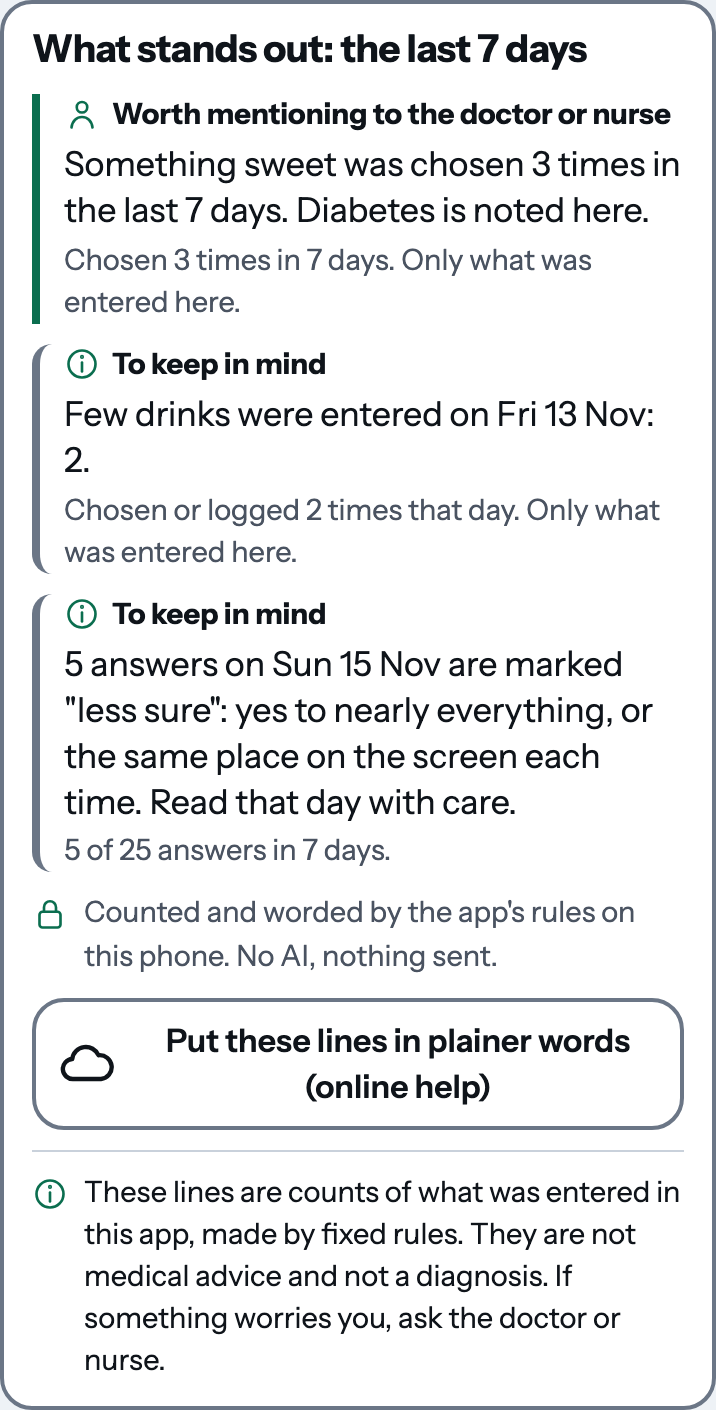
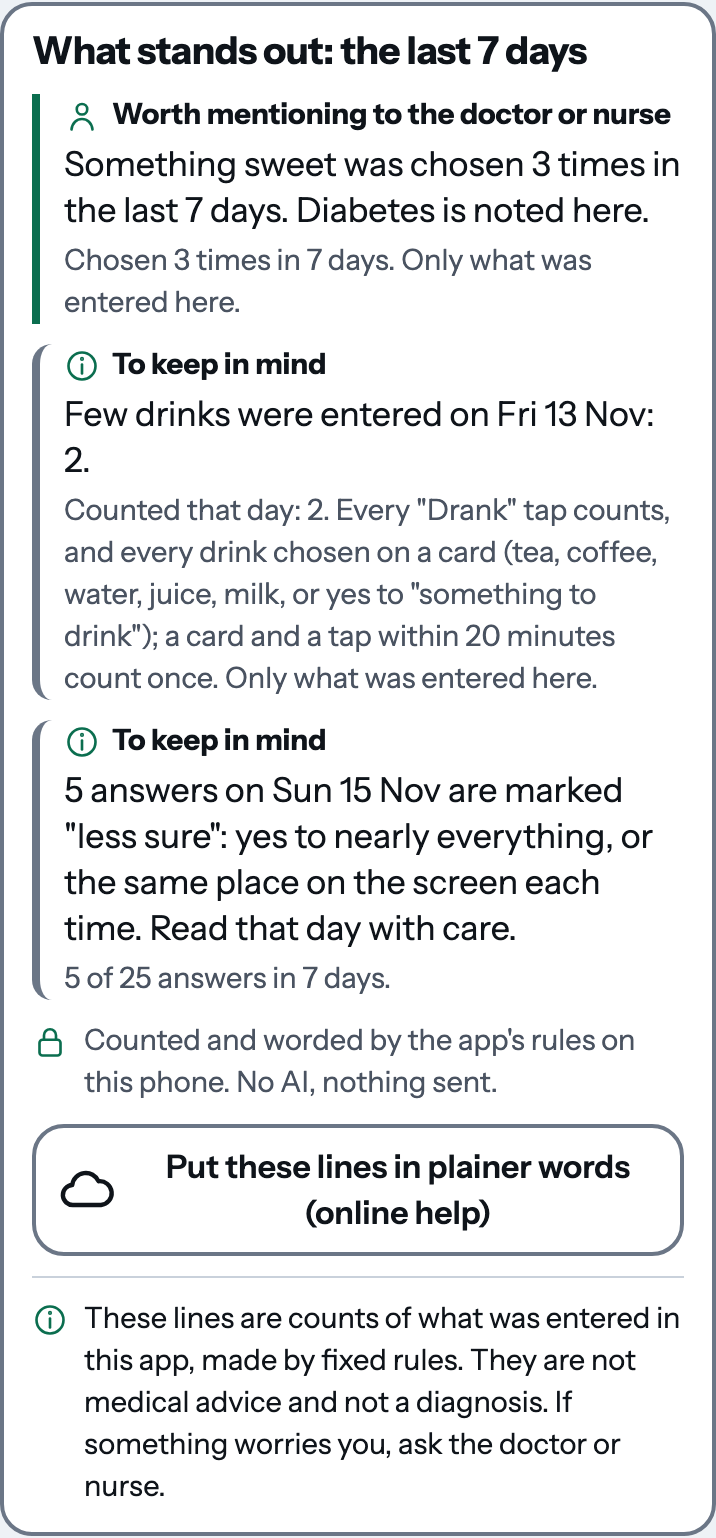
The answer check never discounts pain, and drinks are counted as the timeline shows them (four findings of a second role-play on the hosted copy). Safety: under "Are you in pain? Yes" the check said "Frank may be tired. Try again later", and a carer could have dismissed real pain. Now an answer abou

diff --git a/core/diary.ts b/core/diary.ts
@@ -10,6 +10,7 @@
 // What a diary is not: a record of what happened. It holds only what was entered in this app. A day with no drink in
 // it may be a day when nobody logged one, and every count the app shows says so.
 
+import { careAnswer } from './reliability';
 import type { TopicId } from './topics';
 
 /** The carer's one-tap log. */
@@ -136,8 +137,9 @@ const NOT_AN_ANSWER = /^(?:yes|no|not sure|something else|someone else|somewhere
 const FOOD_Q = /\b(?:snack|meal|eat|sweet|savoury|breakfast|lunch|dinner|supper|pudding)\b/;
 
 /**
- * What an entry counts as. A drink or a food counts when the person chose it by name or it was logged; "yes" to "Are
- * you hungry?" is not a meal, and "a hot drink" is one step on the way to "tea", so neither is counted.
+ * What an entry counts as. A drink counts when the person chose it by name on a card (tea, coffee, water, juice,
+ * milk), said yes to "something to drink", pointed to it on the board, or it was logged; a food likewise. "Yes" to
+ * "Are you hungry?" is not a meal, and "a hot drink" is one step on the way to "tea", so neither is counted.
  */
 export function tags(e: DiaryEntry): Tag[] {
   const l = lc(e.label);
@@ -145,7 +147,7 @@ export function tags(e: DiaryEntry): Tag[] {
   if (e.kind === 'log') return e.log === 'drank' ? ['drink'] : e.log === 'ate' ? ['food'] : e.log === 'toilet' ? ['toilet'] : e.log === 'slept' ? ['sleep'] : ['pain'];
   if (e.kind === 'need') return l === 'drink' ? ['drink'] : l === 'food' ? ['food'] : l === 'toilet' ? ['toilet'] : l === 'pain' ? ['pain'] : l === 'tired' ? ['tired'] : [];
   const out: Tag[] = [];
-  if (DRINK.test(l)) out.push('drink');
+  if (DRINK.test(l) || (/\bsomething to drink\b/.test(q) && l === 'yes')) out.push('drink');
   if (SWEET.test(l)) out.push('sweet');
   if (!NOT_AN_ANSWER.test(l) && !DRINK.test(l) && !/\bdrink\b/.test(l) && (FOOD_Q.test(q) || (e.topic === 'food' && /^would you like\b/.test(q) && !/\bdrink\b|\bmilk in it\b|\bsome more\b/.test(q)))) out.push('food');
   if (/\btoilet\b/.test(q) && l === 'yes') out.push('toilet');
@@ -155,24 +157,35 @@ export function tags(e: DiaryEntry): Tag[] {
   return out;
 }
 
-/** Two entries of the same kind less than this apart are one event ("tea" on a card, then "drank" tapped). */
+/** A card and a tap of the same thing less than this apart are one event ("tea" on a card, then "Drank" tapped). */
 export const SAME_EVENT_MS = 20 * 60 * 1000;
 
-/** The moments something of this kind was entered, one per event, oldest first. */
+/**
+ * The moments something of this kind was entered, oldest first. Every tap on the log counts by itself: carers log
+ * afterwards, several at once, so three "Drank" in one minute are three drinks, as the timeline shows them. What is
+ * merged: a card answer and one tap of the same thing within 20 minutes (the tea on the card is the tea that was
+ * drunk), and the answers of one conversation ("something to drink? yes", then "tea").
+ */
 export function events(entries: DiaryEntry[], tag: Tag): number[] {
-  const out: number[] = [];
-  for (const e of [...entries].sort((a, b) => a.at - b.at)) {
-    if (!tags(e).includes(tag)) continue;
-    if (out.length && e.at - out[out.length - 1] < SAME_EVENT_MS) continue;
-    out.push(e.at);
+  const hits = [...entries].filter((e) => tags(e).includes(tag)).sort((a, b) => a.at - b.at);
+  const logs = hits.filter((e) => e.kind === 'log').map((e) => ({ at: e.at, paired: false }));
+  const out = logs.map((l) => l.at);
+  let lastCard = -Infinity;
+  for (const e of hits) {
+    if (e.kind === 'log') continue;
+    // one more answer of the same conversation: the same event as the one before it
+    if (e.at - lastCard < SAME_EVENT_MS) { lastCard = e.at; continue; }
+    lastCard = e.at;
+    const near = logs.filter((l) => !l.paired && Math.abs(l.at - e.at) < SAME_EVENT_MS).sort((a, b) => Math.abs(a.at - e.at) - Math.abs(b.at - e.at))[0];
+    if (near) near.paired = true; else out.push(e.at);
   }
-  return out;
+  return out.sort((a, b) => a - b);
 }
 
 /** The diary with every entry of the guard's run marked "less sure" (core/reliability.ts): answers only, never a log. */
 export function markDiary(diary: DiaryEntry[], since: number | null, now: number): DiaryEntry[] {
   if (since === null) return diary;
-  return diary.map((e) => (e.kind === 'answer' && e.at >= since && e.at <= now && !e.lessSure ? { ...e, lessSure: true } : e));
+  return diary.map((e) => (e.kind === 'answer' && e.at >= since && e.at <= now && !e.lessSure && !careAnswer(e.q ?? '', e.label) ? { ...e, lessSure: true } : e));
 }
 
 /** The span as plain text, for "Copy for a visit": day by day, a time and what was entered. No count, no advice. */

diff --git a/core/reliability.ts b/core/reliability.ts
@@ -13,6 +13,10 @@
 //   - one gentle line for the carer ("They may be tired. Try again later, or check with a different question.");
 //   - the next either-or cards put their choices in a different order (`reorder`). A yes / no card keeps its order
 //     (yes first is a habit worth keeping): the line asks the carer to check with a different question instead.
+// Never about pain, the toilet, help or a need (18 Nov, the second role-play: after "Are you in pain? Yes" the line
+// said "may be tired", and a carer could have dismissed real pain). Such an answer (`careAnswer`) does not count
+// toward a run, is never marked "less sure", and no line stands on its screen. And not in an ordinary fast flow: the
+// guard speaks only when the run took at least 2 minutes, or at least 5 answers fall within those ten minutes.
 // Nothing here is ever shown on the person's screen: no line, no mark, no count (tests/unit/reliability.test.ts).
 // This file imports nothing; no file that builds a prompt or a request imports it.
 
@@ -34,6 +38,15 @@ export const YES_MIN = 4;
 /** The same position this many times in a row. */
 export const SAME_POS = 4;
 
+/** The guard speaks only when the run took at least this long, or the window holds at least MIN_CARDS answers. */
+export const MIN_SPAN_MS = 2 * 60 * 1000;
+export const MIN_CARDS = 5;
+
+/** An answer about pain, the toilet, help or a need: the guard never counts it, marks it or speaks on it. */
+export function careAnswer(q: string, label = ''): boolean {
+  return /\b(?:pain|hurt|hurts|hurting|sore|ache|aches|toilet|bathroom|loo|help|need|needs|emergency|unwell|sick|dizzy|breathe|breathing)\b/i.test(q) || /^(?:in pain|pain|toilet|help)$/i.test(label.trim());
+}
+
 export type Flag = 'yes-run' | 'same-position';
 export interface Reliability {
   flags: Flag[];
@@ -45,9 +58,9 @@ export interface Reliability {
 export const RELIABLE: Reliability = { flags: [], since: null, pos: null };
 
 /** The answers of the history that the guard can read (the ones that recorded where the choice stood). */
-export function tapsFrom(history: { label: string; at: number; pos?: number; of?: number; yn?: boolean }[]): Tap[] {
+export function tapsFrom(history: { q?: string; label: string; at: number; pos?: number; of?: number; yn?: boolean }[]): Tap[] {
   return history
-    .filter((h) => typeof h.pos === 'number' && typeof h.of === 'number')
+    .filter((h) => typeof h.pos === 'number' && typeof h.of === 'number' && !careAnswer(h.q ?? '', h.label))
     .map((h) => ({ at: h.at, yn: !!h.yn, yes: !!h.yn && h.label.trim().toLowerCase() === 'yes', pos: h.pos!, of: h.of! }))
     .sort((a, b) => a.at - b.at);
 }
@@ -59,13 +72,15 @@ export function reliability(taps: Tap[], now: number): Reliability {
   let since: number | null = null;
   let pos: number | null = null;
   // "yes" to at least 4 of the last 5 yes / no cards
+  // (not in an ordinary fast flow: the run took 2 minutes or more, or 5 answers or more are in the window)
+  const slow = (first: number, last: number) => last - first >= MIN_SPAN_MS || recent.length >= MIN_CARDS;
   const yn = recent.filter((t) => t.yn).slice(-YES_OF);
-  if (yn.filter((t) => t.yes).length >= YES_MIN) { flags.push('yes-run'); since = yn[0].at; }
+  if (yn.filter((t) => t.yes).length >= YES_MIN && slow(yn[0].at, yn[yn.length - 1].at)) { flags.push('yes-run'); since = yn[0].at; }
   // the same place on the screen at least 4 times in a row (cards with one answer only cannot show it)
   const placed = recent.filter((t) => t.of >= 2);
   let run = 0;
   for (let i = placed.length - 1; i >= 0 && placed[i].pos === placed[placed.length - 1].pos; i--) run++;
-  if (run >= SAME_POS) {
+  if (run >= SAME_POS && slow(placed[placed.length - run].at, placed[placed.length - 1].at)) {
     flags.push('same-position');
     pos = placed[placed.length - 1].pos;
     const first = placed[placed.length - run].at;
@@ -75,10 +90,10 @@ export function reliability(taps: Tap[], now: number): Reliability {
 }
 
 /** A new list with every answer of the run marked "less sure". Nothing else is changed, and nothing is removed. */
-export function markLessSure<T extends { at: number; lessSure?: boolean }>(xs: T[], r: Reliability, now: number): T[] {
+export function markLessSure<T extends { at: number; lessSure?: boolean; q?: string; label?: string }>(xs: T[], r: Reliability, now: number): T[] {
   if (r.since === null) return xs;
   const since = r.since;
-  return xs.map((x) => (x.at >= since && x.at <= now && !x.lessSure ? { ...x, lessSure: true } : x));
+  return xs.map((x) => (x.at >= since && x.at <= now && !x.lessSure && !careAnswer(x.q ?? '', x.label ?? '') ? { ...x, lessSure: true } : x));
 }
 
 /**

diff --git a/tests/unit/reliability.test.ts b/tests/unit/reliability.test.ts
@@ -5,7 +5,7 @@ import { readFileSync } from 'node:fs';
 import { join } from 'node:path';
 import { describe, expect, it } from 'vitest';
 import { COPY } from '../../core/copy';
-import { RELIABLE, SAME_POS, WINDOW_MS, YES_MIN, YES_OF, markLessSure, reliability, reorder, tapsFrom, type Tap } from '../../core/reliability';
+import { MIN_CARDS, MIN_SPAN_MS, RELIABLE, SAME_POS, WINDOW_MS, YES_MIN, YES_OF, careAnswer, markLessSure, reliability, reorder, tapsFrom, type Tap } from '../../core/reliability';
 import { needsCard } from '../../core/needs';
 import { answeredScreen, cardScreen, personSimple } from '../../web/src/simple';
 import { guardBlock } from '../../web/src/diary';
@@ -59,6 +59,39 @@ describe('the same place on the screen every time', () => {
     const r = reliability([pick(0, 0), yn(1, true), yn(2, true), yn(3, true), yn(4, true)], min(4));
     expect(r.flags).toEqual(['yes-run', 'same-position']);
     expect(r.since).toBe(min(0));
+  });
+});
+
+describe('never about pain, the toilet, help or a need; never in an ordinary fast flow', () => {
+  const sec = (n: number, yes = true): Tap => ({ at: T0 + n * 1000, yn: true, yes, pos: yes ? 0 : 1, of: 2 });
+  it('which answers the guard does not read', () => {
+    for (const q of ['Are you in pain?', 'Does it hurt?', 'Where does it hurt?', 'Do you need the toilet?', 'Do you need help?', 'How bad is the pain?', 'What do you need?']) expect(careAnswer(q, 'yes'), q).toBe(true);
+    expect(careAnswer('How are you feeling today?', 'in pain')).toBe(true);
+    for (const q of ['Are you tired?', 'Are you hungry?', 'Would you like tea or coffee?', 'Would you like some music on?']) expect(careAnswer(q, 'yes'), q).toBe(false);
+  });
+  it('a "yes" to pain or the toilet does not count toward a run, and is never marked', () => {
+    const h = [['Are you tired?', 0], ['Are you in pain?', 1], ['Do you need the toilet?', 2], ['Are you hungry?', 3], ['Would you like some music on?', 4]].map(([q, n]) => ({ q: q as string, label: 'yes', at: min(n as number), pos: 0, of: 2, yn: true }));
+    // five "yes" in a row, two of them about pain and the toilet: three count, and that is not a run
+    expect(tapsFrom(h).length).toBe(3);
+    expect(reliability(tapsFrom(h), min(4))).toBe(RELIABLE);
+    const more = [...h, { q: 'Would you like the radio on?', label: 'yes', at: min(5), pos: 0, of: 2, yn: true }];
+    const r = reliability(tapsFrom(more), min(5));
+    expect(r.flags).toContain('yes-run');
+    expect(markLessSure(more, r, min(5)).map((x) => !!(x as { lessSure?: boolean }).lessSure)).toEqual([true, false, false, true, true, true]);
+  });
+  it('pain -> where -> how bad, and three quick "yes" before it, is an ordinary flow: nothing is said', () => {
+    expect(MIN_SPAN_MS).toBe(120000); expect(MIN_CARDS).toBe(5);
+    // four "yes" in 30 seconds, four cards in all: too fast and too few to say anything
+    expect(reliability([sec(0), sec(10), sec(20), sec(30)], T0 + 30000)).toBe(RELIABLE);
+    // the same four over two minutes are a run
+    expect(reliability([sec(0), sec(40), sec(80), sec(120)], T0 + 120000).flags).toContain('yes-run');
+    // and so are five cards, however fast
+    expect(reliability([sec(0), sec(10), sec(20), sec(30), sec(40)], T0 + 40000).flags).toContain('yes-run');
+  });
+  it('the line is the headline and one sentence; the rest is under "More"', () => {
+    const html = guardBlock({ name: 'Frank', flags: ['yes-run'] });
+    expect(html).toMatch(/<b>Frank may be tired\. Try again later, or check with a different question\.<\/b><small>These answers are marked &quot;less sure&quot; in the diary\.<\/small><details class="guard-more"><summary>More<\/summary>/);
+    expect(html.slice(html.indexOf('<details'))).toContain('Answers about pain, the toilet or a need are never marked: take them as said.');
   });
 });
 

diff --git a/tests/unit/diary.test.ts b/tests/unit/diary.test.ts
@@ -75,11 +75,12 @@ describe('today, week, month', () => {
 });
 
 describe('what an entry counts as', () => {
-  it('a drink: named on a card, logged, or pointed to on the board; "yes" to a question and "a hot drink" are not one', () => {
+  it('a drink: named on a card, yes to "something to drink", logged, or pointed to on the board; "a hot drink" is a step on the way, not one', () => {
     expect(tags(ans('Would you like tea or coffee?', 'tea', 1, 'food'))).toEqual(['drink']);
     expect(tags(logEntry('drank', 1))).toEqual(['drink']);
     expect(tags(needEntry('drink', 1))).toEqual(['drink']);
-    expect(tags(ans('Would you like something to drink?', 'yes', 1, 'food'))).toEqual([]);
+    expect(tags(ans('Would you like something to drink?', 'yes', 1, 'food'))).toEqual(['drink']);
+    expect(tags(ans('Would you like something to drink?', 'no', 1, 'food'))).toEqual([]);
     expect(tags(ans('Would you like a hot drink or a cold drink?', 'hot drink', 1, 'food'))).toEqual([]);
     expect(tags(ans('Would you like milk in it?', 'yes', 1, 'food'))).toEqual([]);
   });
@@ -106,7 +107,19 @@ describe('what an entry counts as', () => {
   it('"tea" on a card and "Drank" tapped a few minutes later are one drink', () => {
     const t = when(0, '09:00');
     expect(SAME_EVENT_MS).toBe(20 * 60000);
-    expect(events([ans('Would you like tea or coffee?', 'tea', t, 'food'), logEntry('drank', t + 5 * 60000), logEntry('drank', t + 90 * 60000)], 'drink')).toEqual([t, t + 90 * 60000]);
+    expect(events([ans('Would you like tea or coffee?', 'tea', t, 'food'), logEntry('drank', t + 5 * 60000), logEntry('drank', t + 90 * 60000)], 'drink')).toEqual([t + 5 * 60000, t + 90 * 60000]);
+  });
+  it('every tap on the log counts: three "Drank" in the same minute are three drinks, as the timeline shows them', () => {
+    const t = when(0, '08:10');
+    expect(events([logEntry('drank', t), logEntry('drank', t), logEntry('drank', t + 20000)], 'drink').length).toBe(3);
+    // a card and ONE tap are one drink; a second tap is a second drink
+    expect(events([ans('Would you like tea or coffee?', 'tea', t, 'food'), logEntry('drank', t + 60000), logEntry('drank', t + 120000)], 'drink').length).toBe(2);
+    // a tap logged just before the card is the same drink too
+    expect(events([logEntry('drank', t - 60000), ans('Would you like tea or coffee?', 'tea', t, 'food')], 'drink').length).toBe(1);
+    // the answers of one conversation are one drink: yes to "something to drink", then "tea"
+    expect(events([ans('Would you like something to drink?', 'yes', t, 'food'), ans('Would you like tea or coffee?', 'tea', t + 60000, 'food')], 'drink').length).toBe(1);
+    // two cards hours apart are two
+    expect(events([ans('Would you like tea or coffee?', 'tea', t, 'food'), ans('Would you like water, juice or milk?', 'water', t + 3 * 3600000, 'food')], 'drink').length).toBe(2);
   });
 });
 
@@ -116,6 +129,9 @@ describe('"less sure"', () => {
     const d = [logEntry('drank', t - 1000), ans('Are you tired?', 'yes', t), logEntry('ate', t + 1000), ans('Are you hungry?', 'yes', t + 2000)];
     const m = markDiary(d, t, t + 5000);
     expect(m.map((e) => !!e.lessSure)).toEqual([false, true, false, true]);
+    // an answer about pain or the toilet is never marked, wherever it stands in the run
+    const care = [ans('Are you in pain?', 'yes', t + 100), ans('Do you need the toilet?', 'yes', t + 200), ans('How are you feeling today?', 'in pain', t + 300), ans('Are you tired?', 'yes', t + 400)];
+    expect(markDiary(care, t, t + 5000).map((e) => !!e.lessSure)).toEqual([false, false, false, true]);
     expect(markDiary(d, null, t)).toBe(d);
   });
   it('the text for a visit says it, with the time and the question, and holds no count and no advice', () => {

diff --git a/web/src/main.ts b/web/src/main.ts
@@ -32,7 +32,7 @@ import { backupText, makeBackup, readBackup, type Backup, type BackupPreview } f
 import { addEntry, answerEntry, diaryText, inSpan, logEntry, markDiary, needEntry, removeEntry, type DiaryEntry, type DiaryTopic, type LogKind, type Span } from '../../core/diary';
 import { within, type CloudError } from '../../core/engine';
 import { NO_HEALTH, cleanHealth, cloudLines, insightCloudText, insightDevicePrompt, insights, type HealthNotes, type Insight, type InsightSpan } from '../../core/insights';
-import { RELIABLE, markLessSure, reliability, reorder, tapsFrom } from '../../core/reliability';
+import { RELIABLE, careAnswer, markLessSure, reliability, reorder, tapsFrom } from '../../core/reliability';
 import { checkReworded, rewordOnDevice, type RewordSource } from '../../core/reword';
 import { addAsk, askOf, tipOfDay, type Ask } from '../../core/tip';
 import { topicOf } from '../../core/topics';
@@ -433,7 +433,8 @@ async function load() {
 // ---------------------------------------------------------------- phase 3: the guard, the diary, the insights, the tip (carer's side only)
 /** What the answer-reliability guard notices now (core/reliability.ts): rules, from the answers kept on this device. Never for the sample family. */
 const guardNow = () => (learns() ? reliability(tapsFrom(state.history), Date.now()) : RELIABLE);
-const guardHtml = () => guardBlock({ name: state.profile.personName.trim(), flags: guardNow().flags });
+/** The guard's line, never on a card about pain, the toilet, help or a need: such an answer is taken as said (core/reliability.ts, careAnswer). */
+const guardHtml = (c?: Card, label = '') => (c && (c.kind === 'needs' || c.kind === 'body' || c.kind === 'pain' || careAnswer(c.asked, label)) ? '' : guardBlock({ name: state.profile.personName.trim(), flags: guardNow().flags }));
 /**
  * While the guard is on, the next either-or shows its answers in a different order (none removed; the line to say
  * follows). A yes / no card, a scale and a paged list keep their order.
@@ -1371,7 +1372,7 @@ function simpleScreen(): string {
       who: p.role === 'answer' && asksWho(c, p.label, state.profile),
       invite: state.inviteFor === c && !state.inviteOff,
       today: state.history.filter((h) => h.at >= pageStart).slice(-5).reverse().map((h) => ({ q: h.q, label: h.label })),
-      made: simpleMade(c), privacy: simplePrivacy(), guardHtml: c.kind === 'repair' ? '' : guardHtml(),
+      made: simpleMade(c), privacy: simplePrivacy(), guardHtml: c.kind === 'repair' ? '' : guardHtml(c, p.label),
     });
   } else if (c && !state.busy) {
     const prev = c.blocked || c.kind === 'repair' || c.kind === 'needs' ? null : lastAnswer(state.history, c.asked, state.cardAt);
@@ -1383,7 +1384,7 @@ function simpleScreen(): string {
       offline: needsInternet(c, { online: isOnline(), cloudConfigured: state.engine.cloudConfigured }),
       lastTime: prev ? C.card.lastTime(whenText(prev.at, Date.now()), prev.label) : '', short: shortModel(), tips: state.tips,
       usual: (() => { const u = usualFor(c); return u ? usualHint(u) : ''; })(),
-      guardHtml: c.blocked || c.kind === 'repair' || c.kind === 'no-quiz' ? '' : guardHtml(),
+      guardHtml: c.blocked || c.kind === 'repair' || c.kind === 'no-quiz' ? '' : guardHtml(c),
     });
   } else {
     const p = state.profile;

diff --git a/core/copy.ts b/core/copy.ts
@@ -534,7 +534,10 @@ const COPY = {
       line: (name: string) => `${name || 'They'} may be tired. Try again later, or check with a different question.`,
       yes: 'The last few yes / no answers were nearly all "yes".',
       place: 'The last four answers were all in the same place on the screen.',
-      marked: 'These answers are marked "less sure" in the diary. The next either-or shows its choices in a different order.',
+      marked: 'These answers are marked "less sure" in the diary.',
+      more: 'More',
+      order: 'The next either-or shows its choices in a different order.',
+      never: 'Answers about pain, the toilet or a need are never marked: take them as said.',
       lessSure: 'less sure',
     },
     /** The diary (core/diary.ts): the carer's side only. */
@@ -587,11 +590,11 @@ const COPY = {
       noDrink: (days: string) => `No drink was chosen or logged on ${days}. That can simply mean nobody entered one.`,
       noDrinkFluid: (days: string) => `No drink was chosen or logged on ${days}. A fluid limit from the doctor is noted here: go by the doctor's plan.`,
       noDrinkBase: (n: number) => `Other things were entered on ${n === 1 ? 'that day' : 'those days'}, and no drink.`,
-      fewDrinks: (day: string, n: number) => `Few drinks were entered on ${day}: ${n}.`,
-      fewDrinksBase: (n: number) => `Chosen or logged ${n} time${n === 1 ? '' : 's'} that day.`,
+      fewDrinks: (days: string, n: number, several: boolean) => `Few drinks were entered on ${days}: ${n}${several === true ? ' each' : ''}.`,
+      fewDrinksBase: (n: number, several: boolean) => `Counted ${several === true ? 'on each of those days' : 'that day'}: ${n}. Every "Drank" tap counts, and every drink chosen on a card (tea, coffee, water, juice, milk, or yes to "something to drink"); a card and a tap within 20 minutes count once.`,
       fewDrinksReminders: 'Reminders to drink are noted here.',
       manyDrinks: (day: string, n: number) => `${n} drinks were entered on ${day}. A fluid limit from the doctor is noted here: check the day against the doctor's plan.`,
-      manyDrinksBase: (n: number) => `Chosen or logged ${n} times that day.`,
+      manyDrinksBase: (n: number) => `Counted that day: ${n}. Every "Drank" tap counts, and every drink chosen on a card; a card and a tap within 20 minutes count once.`,
       sweets: (n: number, span: string) => `Something sweet was chosen ${n} times in the last ${span}.`,
       sweetsDiabetes: 'Diabetes is noted here.',
       sweetsBase: (n: number, span: string) => `Chosen ${n} times in ${span}.`,

diff --git a/tests/unit/insights.test.ts b/tests/unit/insights.test.ts
@@ -44,7 +44,16 @@ describe('the rules', () => {
   it('a day with few drinks entered: the count, the day, and "only what was entered here"', () => {
     const wed = [logEntry('drank', when(2, '08:00')), logEntry('ate', when(2, '12:00')), logEntry('drank', when(2, '15:00'))];
     const xs = insights([...days(0, 1), ...wed], NO_HEALTH, 'week', NOW);
-    expect(xs).toEqual([{ id: 'few-drinks', level: 'note', text: 'Few drinks were entered on Wed 18 Nov: 2.', noted: '', base: 'Chosen or logged 2 times that day. Only what was entered here.' }]);
+    expect(xs).toEqual([{ id: 'few-drinks', level: 'note', text: 'Few drinks were entered on Wed 18 Nov: 2.', noted: '', base: 'Counted that day: 2. Every "Drank" tap counts, and every drink chosen on a card (tea, coffee, water, juice, milk, or yes to "something to drink"); a card and a tap within 20 minutes count once. Only what was entered here.' }]);
+    // (18 Nov, the second role-play) two days with the fewest are both named, and three taps in one minute are three drinks
+    const fri = [logEntry('drank', when(4, '08:00')), logEntry('ate', when(4, '12:00'))];
+    const mon = [logEntry('ate', when(0, '09:00')), logEntry('drank', when(0, '10:00'))];
+    const tie = insights([...days(1), ...fri, ...mon], NO_HEALTH, 'week', NOW);
+    expect(tie[0].text).toBe('Few drinks were entered on Mon 16 Nov and Fri 20 Nov: 1 each.');
+    expect(tie[0].base.startsWith('Counted on each of those days: 1. Every "Drank" tap counts')).toBe(true);
+    const batch = [logEntry('ate', when(2, '08:00')), logEntry('drank', when(2, '08:10')), logEntry('drank', when(2, '08:10')), logEntry('drank', when(2, '08:10'))];
+    expect(ids(insights([...days(0, 1), ...batch], NO_HEALTH, 'week', NOW))).toEqual(['nothing']);
+    expect(insights([...days(0, 1), ...batch.slice(0, 3)], NO_HEALTH, 'week', NOW)[0].text).toBe('Few drinks were entered on Wed 18 Nov: 2.');
   });
   it('something sweet, chosen often: 6 times in a week without a note, a note only', () => {
     const sweet = (d: number, t: string) => answerEntry({ q: 'Would you like something sweet or something savoury?', label: 'something sweet', at: when(d, t) }, 'food');

diff --git a/tests/unit/frank-week.test.ts b/tests/unit/frank-week.test.ts
@@ -36,7 +36,7 @@ describe('Frank\'s week', () => {
     expect(xs.map((x) => x.id)).toEqual(WEEK.expect.week);
     expect(xs[0]).toEqual({ id: 'sweets', level: 'mention', text: 'Something sweet was chosen 3 times in the last 7 days.', noted: 'Diabetes is noted here.', base: 'Chosen 3 times in 7 days. Only what was entered here.' });
     expect(COPY.simple.insights.level[xs[0].level]).toBe('Worth mentioning to the doctor or nurse');
-    expect(xs[1]).toEqual({ id: 'few-drinks', level: 'note', text: 'Few drinks were entered on Wed 18 Nov: 2.', noted: '', base: 'Chosen or logged 2 times that day. Only what was entered here.' });
+    expect(xs[1]).toEqual({ id: 'few-drinks', level: 'note', text: 'Few drinks were entered on Wed 18 Nov: 2.', noted: '', base: 'Counted that day: 2. Every "Drank" tap counts, and every drink chosen on a card (tea, coffee, water, juice, milk, or yes to "something to drink"); a card and a tap within 20 minutes count once. Only what was entered here.' });
     expect(xs[2].text.startsWith('5 answers on Fri 20 Nov are marked "less sure"')).toBe(true);
     expect(xs[2].base).toBe('5 of 25 answers in 7 days.');
   });
@@ -45,7 +45,7 @@ describe('Frank\'s week', () => {
     const day = (n: number) => d.filter((e) => e.at >= when(n, '00:00') && e.at < when(n + 1, '00:00'));
     expect([0, 1, 2, 3, 4, 5].map((n) => events(day(n), 'drink').length)).toEqual([5, 4, 2, 4, 3, 3]);
     expect(events(d, 'sweet').length).toBe(WEEK.expect.sweets);
-    expect(new Set(events(d, 'pain').map((t) => dayText(t))).size).toBe(2);
+    expect(new Set(events(d, 'pain').map((t) => dayText(t))).size).toBe(1);
   });
   it('without the diabetes note the sweets are not a line: the note is what makes them worth mentioning', () => {
     expect(insights(weekDiary(), NO_HEALTH, 'week', NOW).map((x) => x.id)).toEqual(['few-drinks', 'less-sure']);

diff --git a/core/insights.ts b/core/insights.ts
@@ -128,8 +128,11 @@ export function insights(diary: DiaryEntry[], health: HealthNotes, span: Insight
 
   // a day with few drinks entered (the day with the fewest); never with a fluid limit
   if (!health.fluidLimit) {
-    const few = past.map((d) => ({ day: d.day, n: events(d.entries, 'drink').length })).filter((x) => x.n > 0 && x.n < T.fewDrinks).sort((a, b) => a.n - b.n || b.day - a.day)[0];
-    if (few) out.push({ id: 'few-drinks', level: T.fewDrinksMention ? 'mention' : 'note', text: I.fewDrinks(dayText(few.day), few.n), noted: T.fewDrinksMention ? I.fewDrinksReminders : '', base: `${I.fewDrinksBase(few.n)} ${I.only}` });
+    const low = past.map((d) => ({ day: d.day, n: events(d.entries, 'drink').length })).filter((x) => x.n > 0 && x.n < T.fewDrinks);
+    const least = Math.min(...low.map((x) => x.n));
+    // every day that has the fewest is named (two days with one drink each are both worth a look), the last three at most
+    const few = low.filter((x) => x.n === least).map((x) => x.day).sort((a, b) => a - b).slice(-3);
+    if (few.length) out.push({ id: 'few-drinks', level: T.fewDrinksMention ? 'mention' : 'note', text: I.fewDrinks(names(few), least, few.length > 1), noted: T.fewDrinksMention ? I.fewDrinksReminders : '', base: `${I.fewDrinksBase(least, few.length > 1)} ${I.only}` });
   } else if (T.manyDrinks) {
     const many = days.map((d) => ({ day: d.day, n: events(d.entries, 'drink').length })).filter((x) => x.n >= T.manyDrinks).sort((a, b) => b.n - a.n)[0];
     if (many) out.push({ id: 'many-drinks', level: 'mention', text: I.manyDrinks(dayText(many.day), many.n), noted: '', base: `${I.manyDrinksBase(many.n)} ${I.only}`, local: true });

diff --git a/tests/unit/diary-view.test.ts b/tests/unit/diary-view.test.ts
@@ -16,7 +16,7 @@ import { NOW, WEEK, weekDiary } from './week';
 const S = COPY.simple;
 const count = (html: string, part: string) => html.split(part).length - 1;
 /** As the screens write it: an apostrophe is escaped. */
-const h = (t: string) => t.replace(/'/g, '&#39;');
+const h = (t: string) => t.replace(/"/g, '&quot;').replace(/'/g, '&#39;');
 const lines = insights(weekDiary(), WEEK.health, 'week', NOW);
 const model = (o: Partial<DiaryModel> = {}): DiaryModel => ({
   name: 'Frank', tab: 'week', topic: 'all', now: NOW, entries: inSpan(weekDiary(), 'week', NOW), any: true, logged: null,
@@ -52,7 +52,8 @@ describe('the diary screen', () => {
     expect(html).toContain('data-id="sweets" data-level="mention"');
     expect(html).toMatch(/Worth mentioning to the doctor or nurse<\/span><p class="ins-text">Something sweet was chosen 3 times in the last 7 days\. <span class="noted">Diabetes is noted here\.<\/span><\/p><p class="ins-base">Chosen 3 times in 7 days\. Only what was entered here\.<\/p>/);
     expect(html).toContain('Few drinks were entered on Wed 18 Nov: 2.');
-    expect(html).toContain('Chosen or logged 2 times that day. Only what was entered here.');
+    expect(html).toContain(h(`${S.insights.fewDrinksBase(2, false)} ${S.insights.only}`));
+    expect(S.insights.fewDrinksBase(2, false)).toContain('Every "Drank" tap counts, and every drink chosen on a card');
     expect(html).toContain(h(S.insights.by.rules));
     expect(html).toContain(S.insights.footer);
     expect(html).toContain('id="ins-plainer"');

diff --git a/web/src/simple.css b/web/src/simple.css
@@ -386,6 +386,8 @@
 .simple .guard .sg { width: 26px; height: 26px; color: var(--warn); margin-top: 1px; }
 .simple .guard b { display: block; font-size: 17px; line-height: 1.3; color: var(--ink); overflow-wrap: anywhere; }
 .simple .guard small { display: block; font-size: 15px; line-height: 1.35; color: var(--ink); margin-top: 4px; }
+.simple .guard-more summary { min-height: 44px; display: flex; align-items: center; cursor: pointer; font-size: 15px; font-weight: 600; color: var(--ink); }
+.simple .guard-more p { margin: 0; font-size: 15px; line-height: 1.35; color: var(--ink); }
 .simple .btn.diary-link { justify-content: flex-start; text-decoration: none; min-height: 64px; }
 .simple .btn.diary-link span { display: grid; text-align: left; line-height: 1.25; min-width: 0; }
 .simple .btn.diary-link small { font-weight: 400; font-size: 15px; color: var(--ink); margin-top: 2px; }

diff --git a/web/src/diary.ts b/web/src/diary.ts
@@ -26,7 +26,8 @@ export function guardBlock(m: { name: string; flags: Flag[] }): string {
   if (!m.flags.length) return '';
   const G = COPY.simple.guard;
   const why = [m.flags.includes('yes-run') ? G.yes : '', m.flags.includes('same-position') ? G.place : ''].filter(Boolean).join(' ');
-  return `<div class="guard" id="guard" role="status">${SIGN.info}<div><b>${esc(G.line(m.name))}</b><small>${esc(why)} ${esc(G.marked)}</small></div></div>`;
+  // the headline and one line; why, and what else follows, under "More"
+  return `<div class="guard" id="guard" role="status">${SIGN.info}<div><b>${esc(G.line(m.name))}</b><small>${esc(G.marked)}</small><details class="guard-more"><summary>${G.more}</summary><p>${esc(why)} ${esc(G.order)} ${esc(G.never)}</p></details></div></div>`;
 }
 
 /** The way into the diary from the first screen: under the questions, never above them. */
